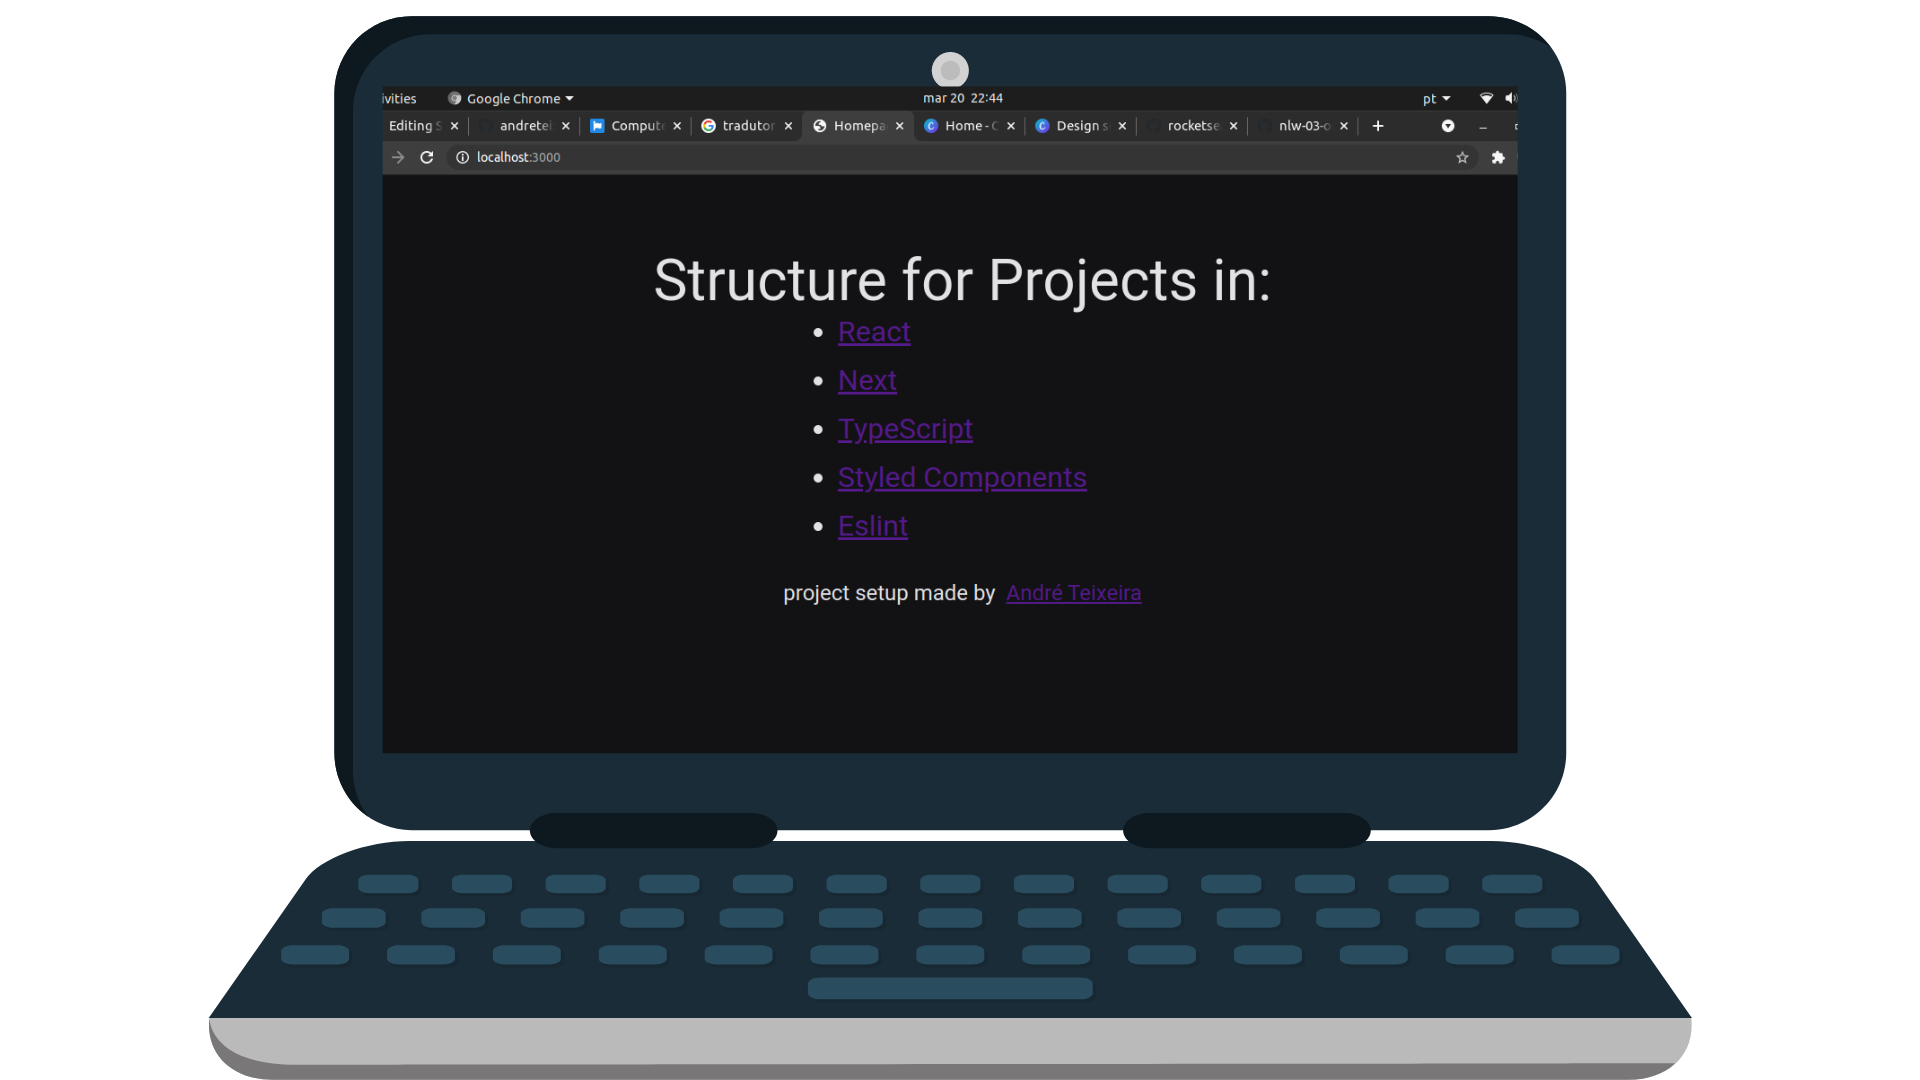
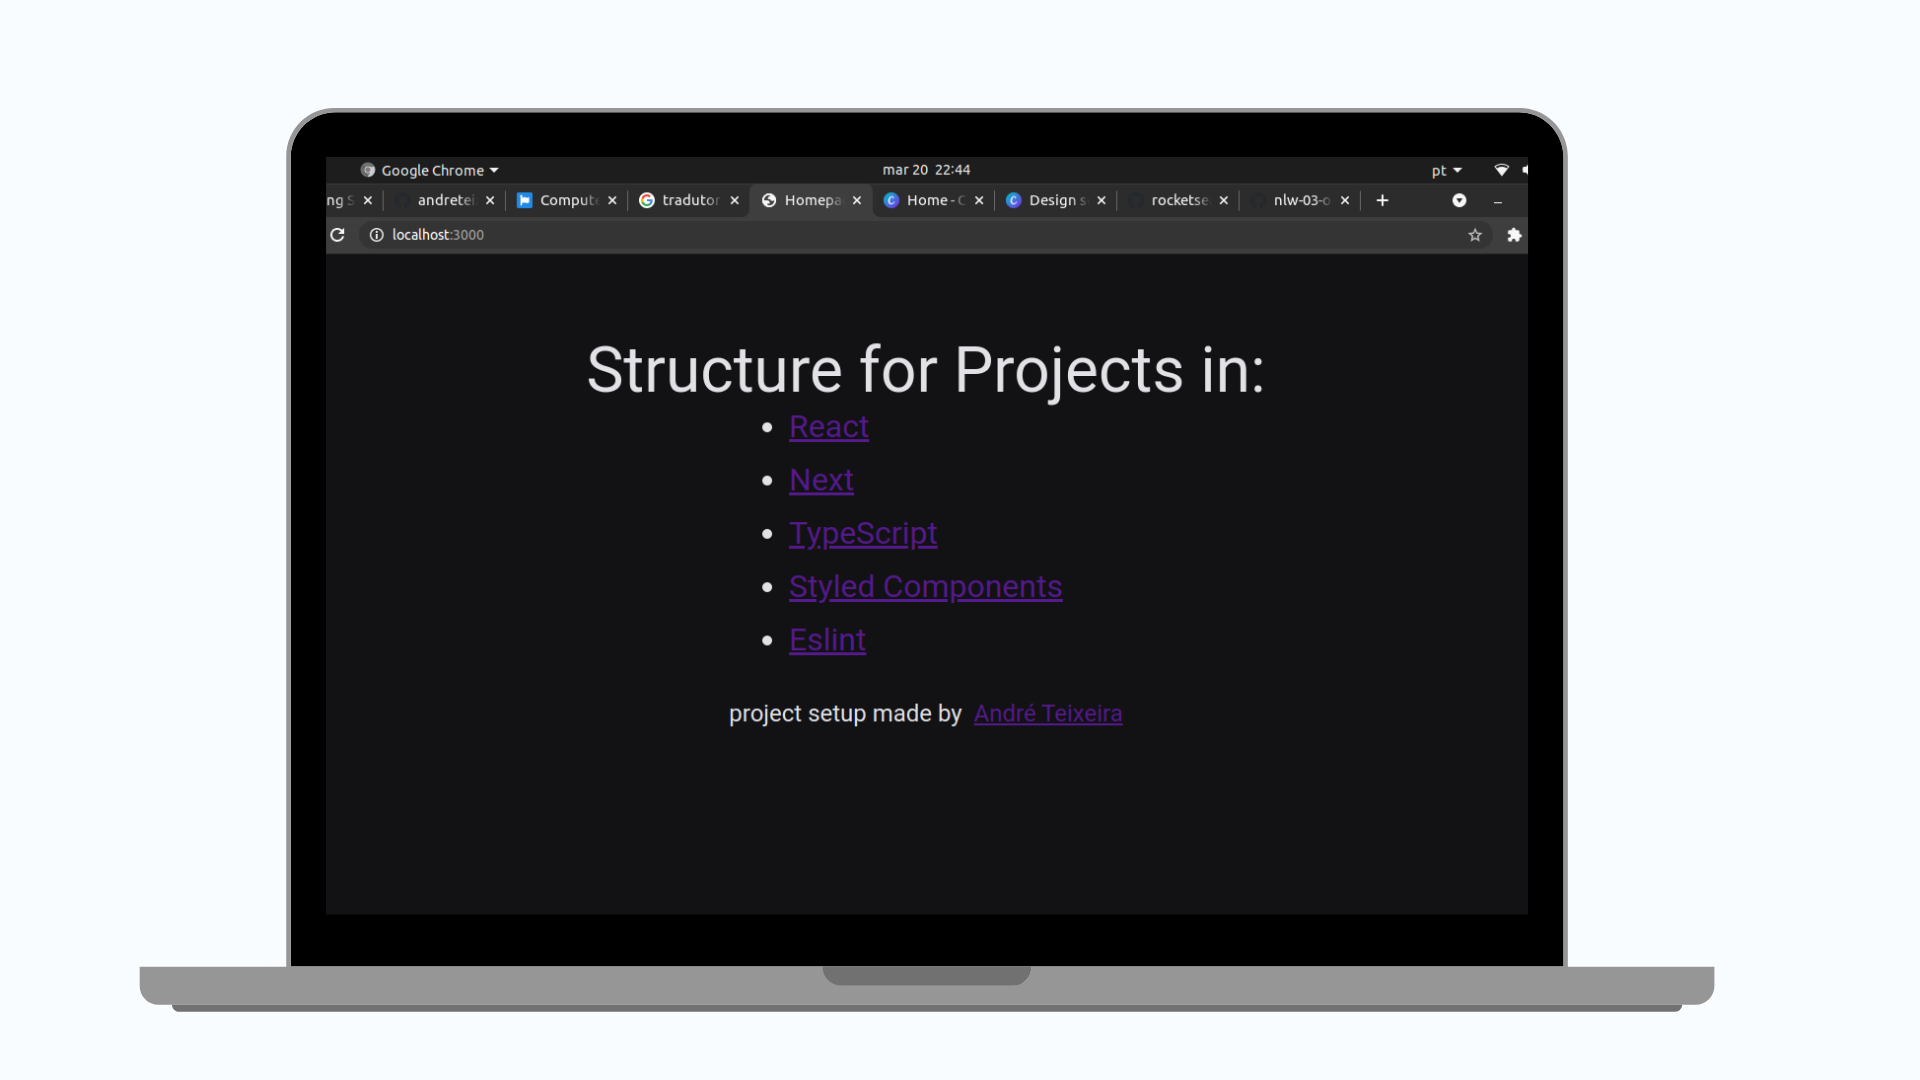
change image

diff --git a/README.md b/README.md
@@ -14,8 +14,7 @@ Project setup with React, Next, TypeScript, Styled components and Eslint.
 <!-- PROJECT LOGO -->
 <br />
 <p align="center">
-    <span>Logo Your Project</span> <br />
-    <img src="/src/assets/icon-computer.png" width="192" height="108" />
+    <img src="/src/assets/icon-computer.png" width="384" height="216" />
 </p>
 
 
@@ -149,4 +148,4 @@ Link Project on Notion: [Setup project on Notion](https://www.notion.so/setup-pr
 [license-url]: https://github.com/andreteixeira98/Setup-Project-Front-End/blob/main/LICENSE
 [linkedin-shield]: https://img.shields.io/badge/-LinkedIn-black.svg?style=for-the-badge&logo=linkedin&colorB=555
 [linkedin-url]: https://linkedin.com/in/
-[product-screenshot]: /src/assets/icon3-computer.png
+[product-screenshot]: /src/assets/icon2-computer.png
